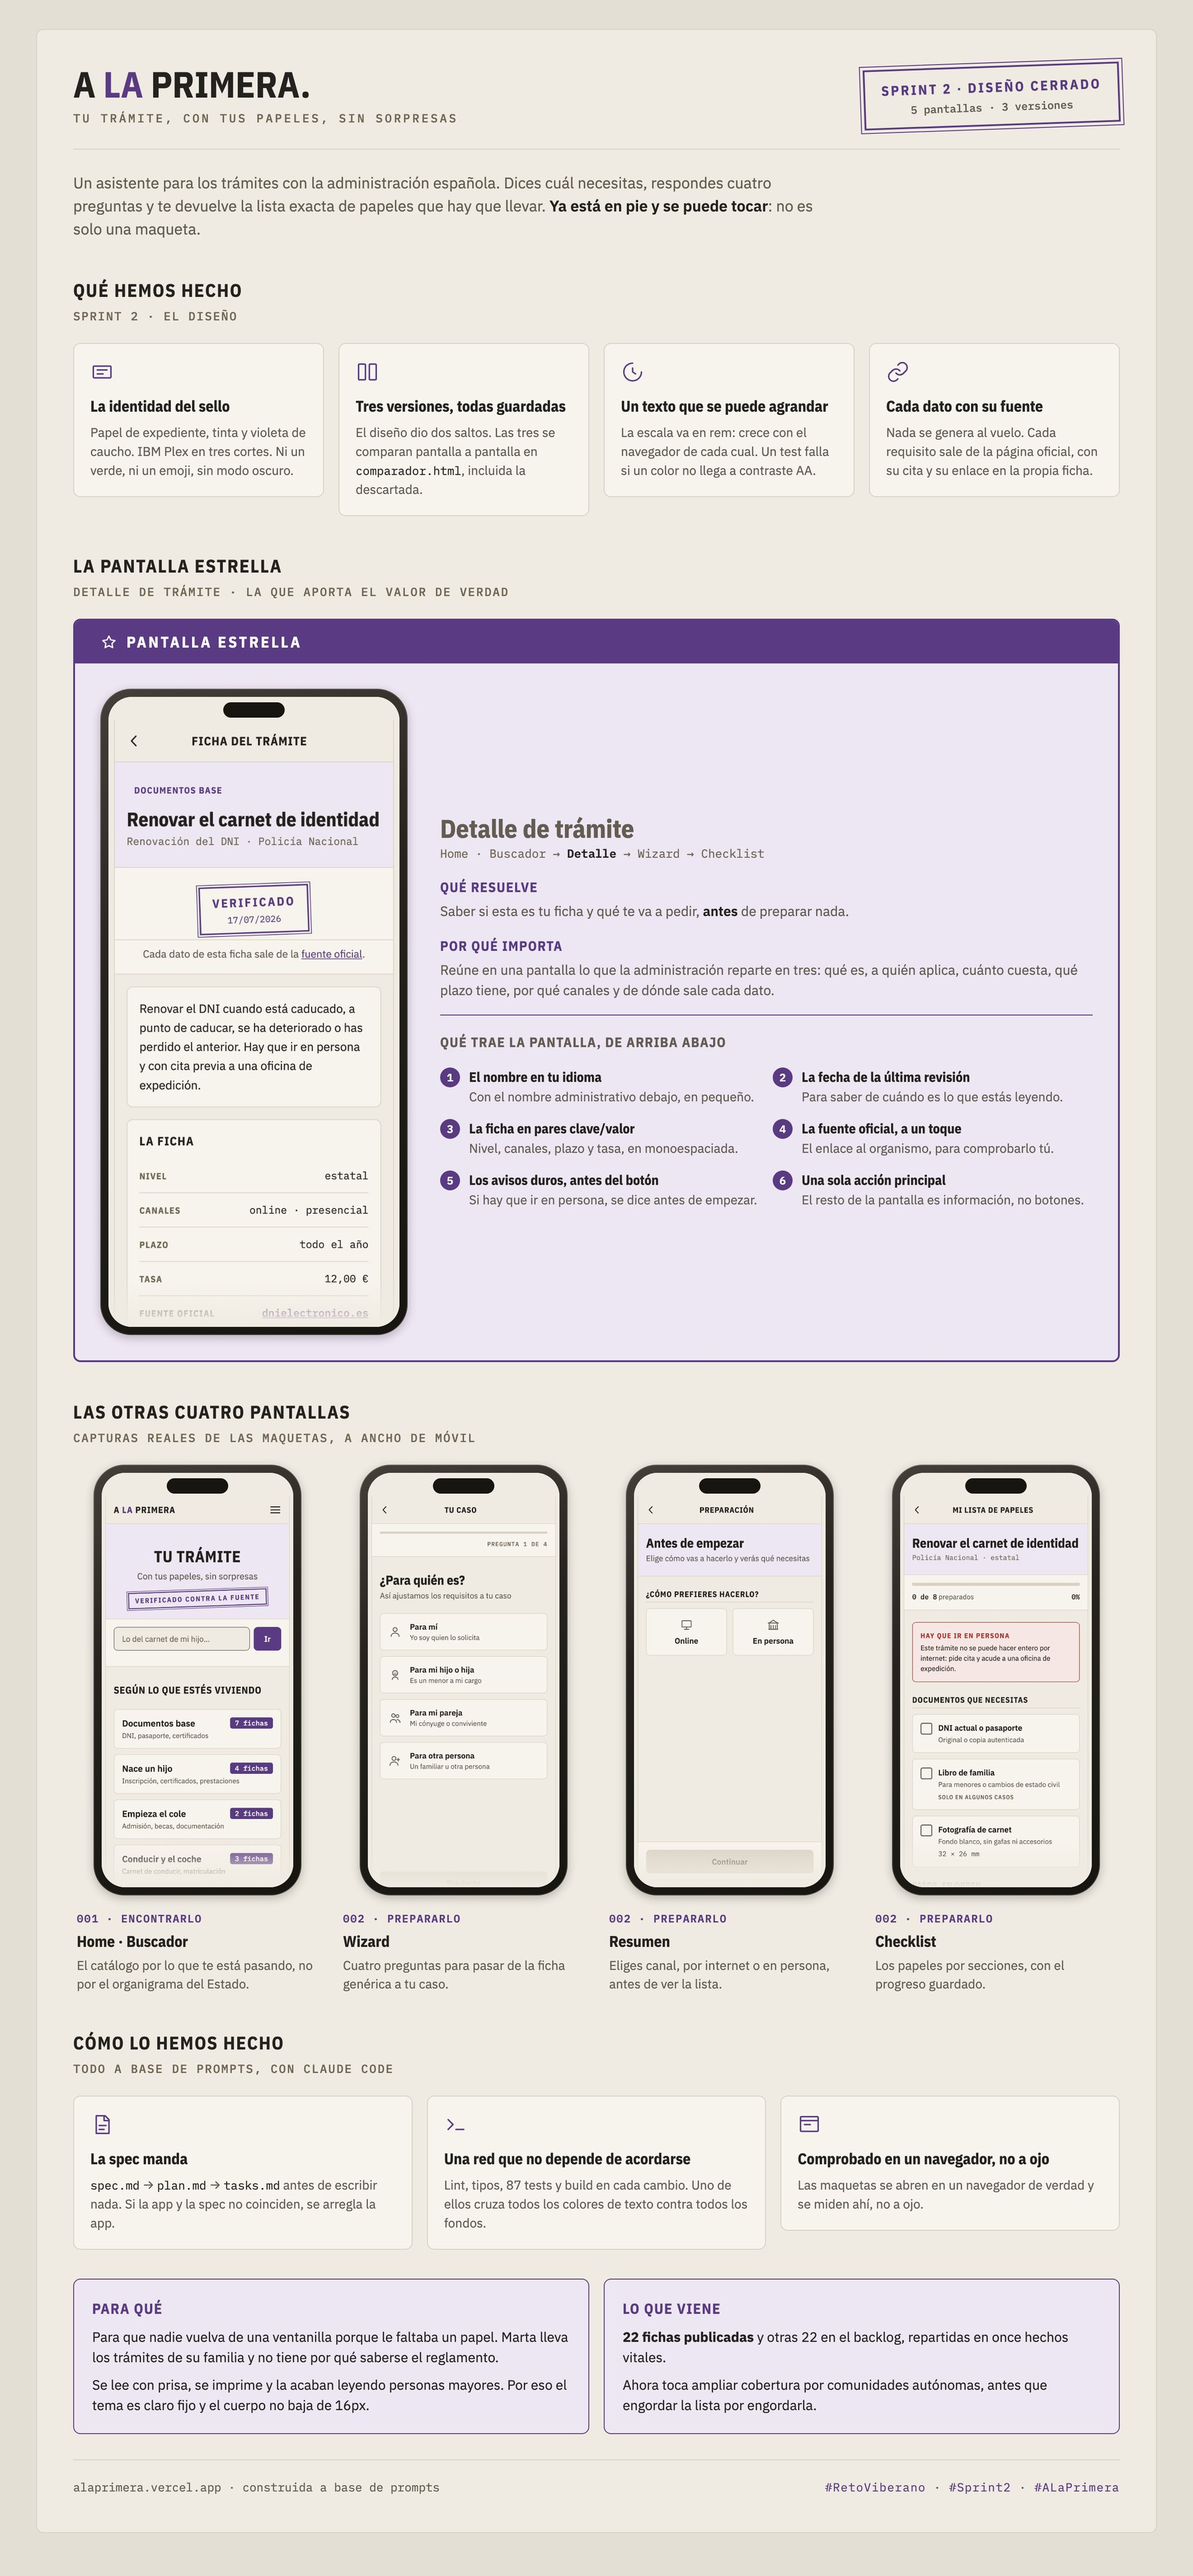
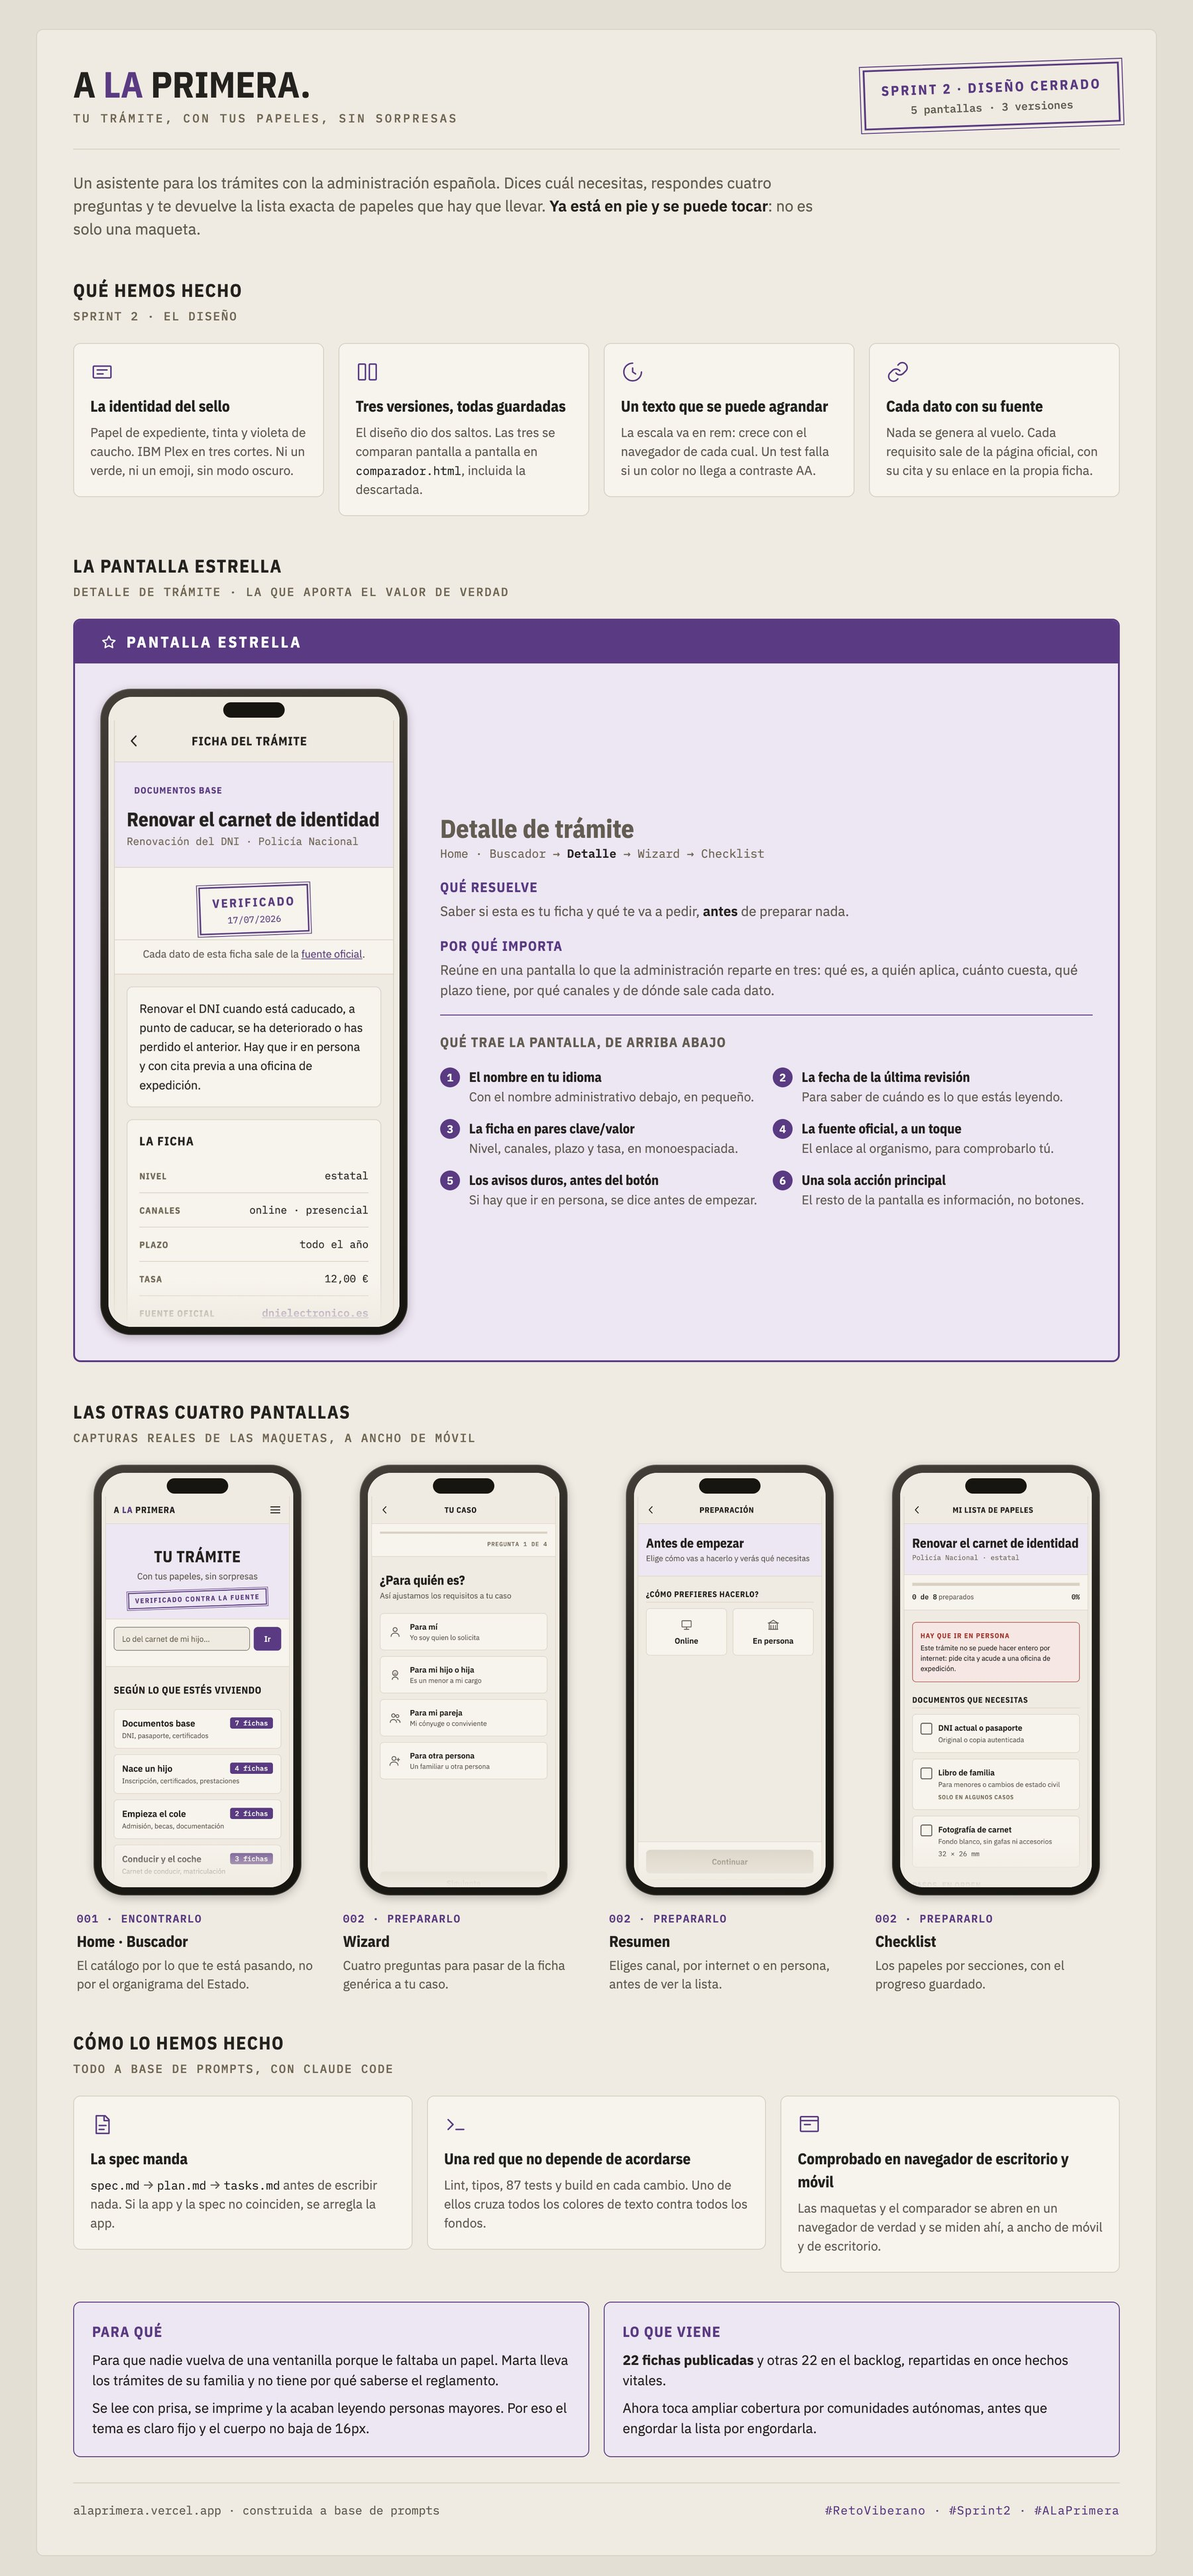
Precisar la tarjeta de comprobación en navegador
"No a ojo" sonaba a pulla y no decía nada. Lo que importa es el alcance: se
comprueba en navegador de escritorio y de móvil, y se nombra también el
comparador, que es lo que de verdad se revisa en las dos anchuras.

Changed region(s): [[0.5289, 0.8718, 0.9022, 0.9653], [0.0622, 0.8718, 0.4667, 0.9653], [0.6533, 0.8407, 0.9022, 0.8718]]

diff --git a/diseño/cartel.html b/diseño/cartel.html
@@ -731,8 +731,8 @@
         <rect x="3" y="4" width="18" height="15" rx="1"></rect>
         <path d="M3 8h18M7 12h6"></path>
       </svg>
-      <h3>Comprobado en un navegador, no a ojo</h3>
-      <p>Las maquetas se abren en un navegador de verdad y se miden ahí, no a ojo.</p>
+      <h3>Comprobado en navegador de escritorio y móvil</h3>
+      <p>Las maquetas y el comparador se abren en un navegador de verdad y se miden ahí, a ancho de móvil y de escritorio.</p>
     </div>
   </div>
 
